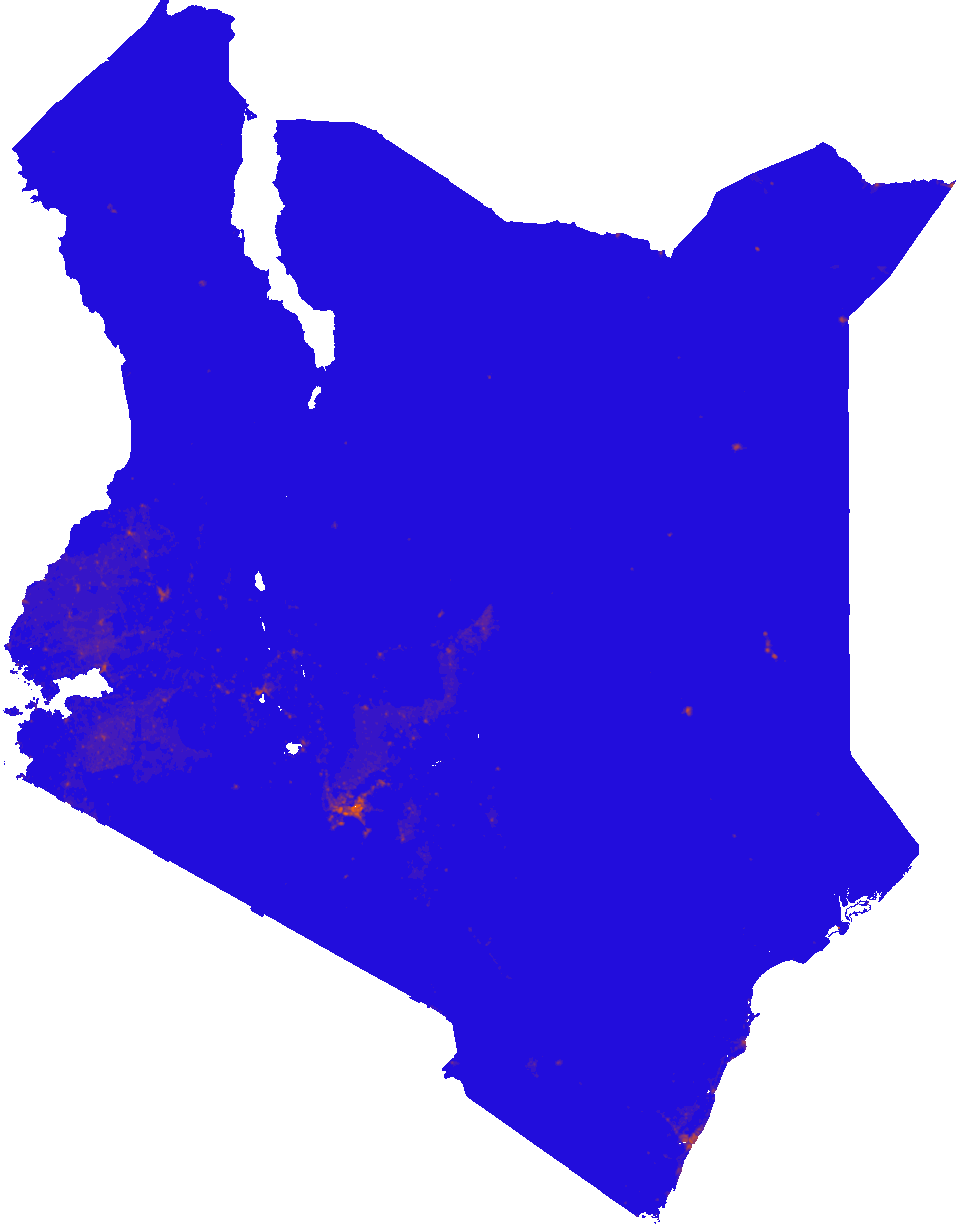
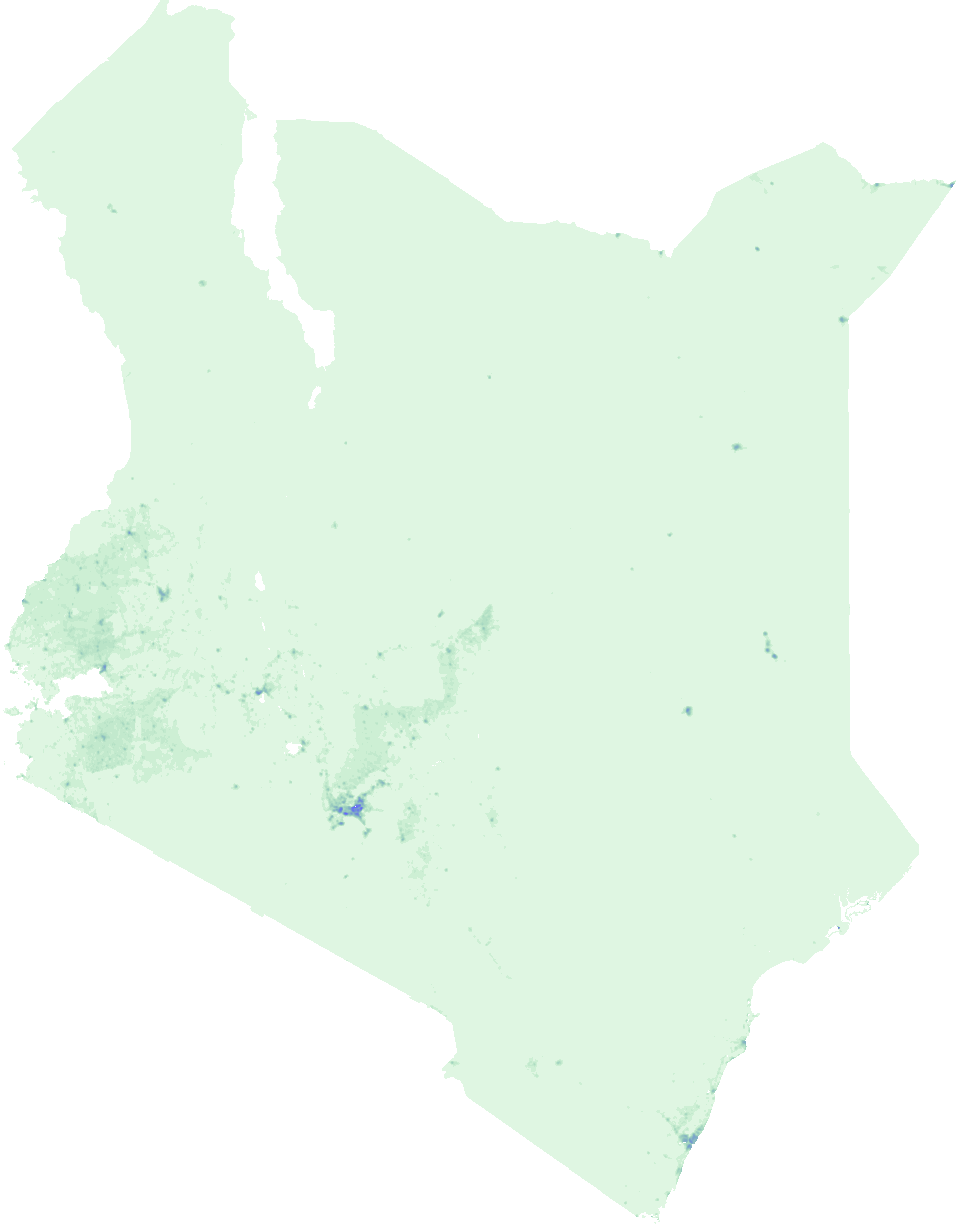
Raster image flow now working

diff --git a/scripts/shared/ImageHelpers.py b/scripts/shared/ImageHelpers.py
@@ -1,39 +1,45 @@
-
 import rasterio
 from rasterio.io import MemoryFile
 from rasterio.warp import calculate_default_transform, reproject, Resampling
 from rasterio.transform import array_bounds
 from rasterio.crs import CRS
 import numpy as np
+from PIL import Image
+import io
 
-def colorizePng(tif_data: bytes, color1 : tuple, color2: tuple, log_scale : bool):
-    with MemoryFile(tif_data) as memfile:
-        with memfile.open() as src:
-            # copy data
-            imgBW = src.read(1)
+def colorizeImageArray(imgArray: bytes, color1 : tuple, color2: tuple, log_scale : bool):
+    img = Image.open(io.BytesIO(imgArray))
+    imgBW = np.array(img, dtype=np.float32)
 
-            # log scale the data
-            if log_scale:
-                imgBW = np.log1p(imgBW)
-                # Since values under 1 will be negative now, set these to 0
-                imgBW[imgBW < 0] = 0  # log(1 + x) to handle zero values
+    # optional: convert the data to logarithmic scale
+    if log_scale:
+        imgBW = np.log1p(imgBW)
+        # Since values under 1 will be negative now, set these to 0
+        imgBW[imgBW < 0] = 0  # log(1 + x) to handle zero values
 
-            # Normalize to 0-1 range for color interpolation
-            img_max = np.nanmax(imgBW)
-            if img_max != 0:
-                normalized = imgBW / img_max 
-            
-            # Create RGBA array - lerp between color1 and color2
-            height, width = imgBW.shape
-            img_array_rgba = np.zeros((height, width, 4), dtype=np.uint8)
-            img_array_rgba[:, :, 0] = (color1[0] * (1 - normalized) + color2[0] * normalized).astype(np.uint8)
-            img_array_rgba[:, :, 1] = (color1[1] * (1 - normalized) + color2[1] * normalized).astype(np.uint8)
-            img_array_rgba[:, :, 2] = (color1[2] * (1 - normalized) + color2[2] * normalized).astype(np.uint8)
-            
-            # Set alpha to 0 for pixels with values less than 1, else lerp between the two colors
-            img_array_rgba[:, :, 3] = np.where(imgBW < 1, 0, (color1[3] * (1 - normalized) + color2[3] * normalized).astype(np.uint8))
+    # Normalize to 0-1 range for color interpolation
+    img_max = np.nanmax(imgBW)
+    if img_max != 0:
+        normalized = imgBW / img_max 
+    
+    # Create RGBA array - lerp between color1 and color2
+    height, width = imgBW.shape
+    img_array_rgba = np.zeros((height, width, 4), dtype=np.uint8)
+    
+    # Set alpha to 0 for pixels with values less than 1, else lerp between the two colors
+    for i in range(height):
+        for j in range(width):
+            if imgBW[i, j] == 0:
+                img_array_rgba[i, j] = [0, 0, 0, 0]
+            else:
+                # lerp between color1 and 2 based on the normalized value from the greyscale array
+                n  = normalized[i, j]
+                img_array_rgba[i, j, 0] = int(color1[0] * (1 - n) + color2[0] * n)
+                img_array_rgba[i, j, 1] = int(color1[1] * (1 - n) + color2[1] * n)
+                img_array_rgba[i, j, 2] = int(color1[2] * (1 - n) + color2[2] * n)
+                img_array_rgba[i, j, 3] = int(color1[3] * (1 - n) + color2[3] * n)
 
-            return img_array_rgba
+    return img_array_rgba
 
 def geotiffToArray(tif_data: bytes):
     

diff --git a/scripts/PopulationRasterColorizer.py b/scripts/PopulationRasterColorizer.py
@@ -1,7 +1,5 @@
 from shared.DataHelpers import target_countries_ISO_A3
-from shared.DownloadHelpers import downloadBinaryObject
-from shared.ImageHelpers import geotiffToArray
-from shared.ImageHelpers import colorizePng
+from shared.ImageHelpers import colorizeImageArray
 from pathlib import Path
 import json
 from PIL import Image
@@ -30,7 +28,7 @@ if __name__ == "__main__":
         binObject = bwImageFile.read_bytes()
 
         # convert to color
-        colorImageData = colorizePng(binObject, [0,0,255,100], [255,100,0,255], log_scale=True)
+        colorImageData = colorizeImageArray(binObject, [0,200,0,0], [100,100,255,255], log_scale=True)
         
         # Write image as color PNG
         color_path = rgbaOutputDir / f"{country}{rasterEnding}"
